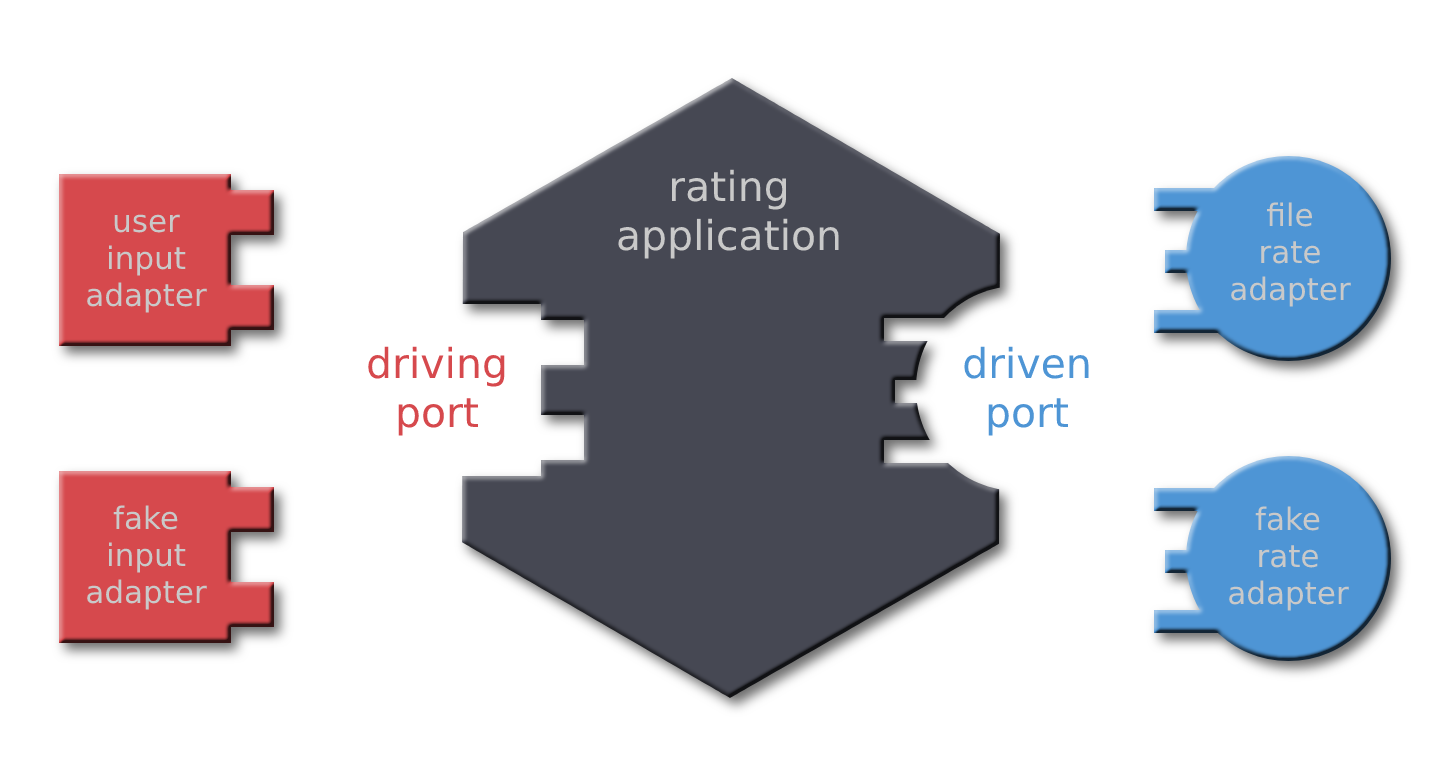
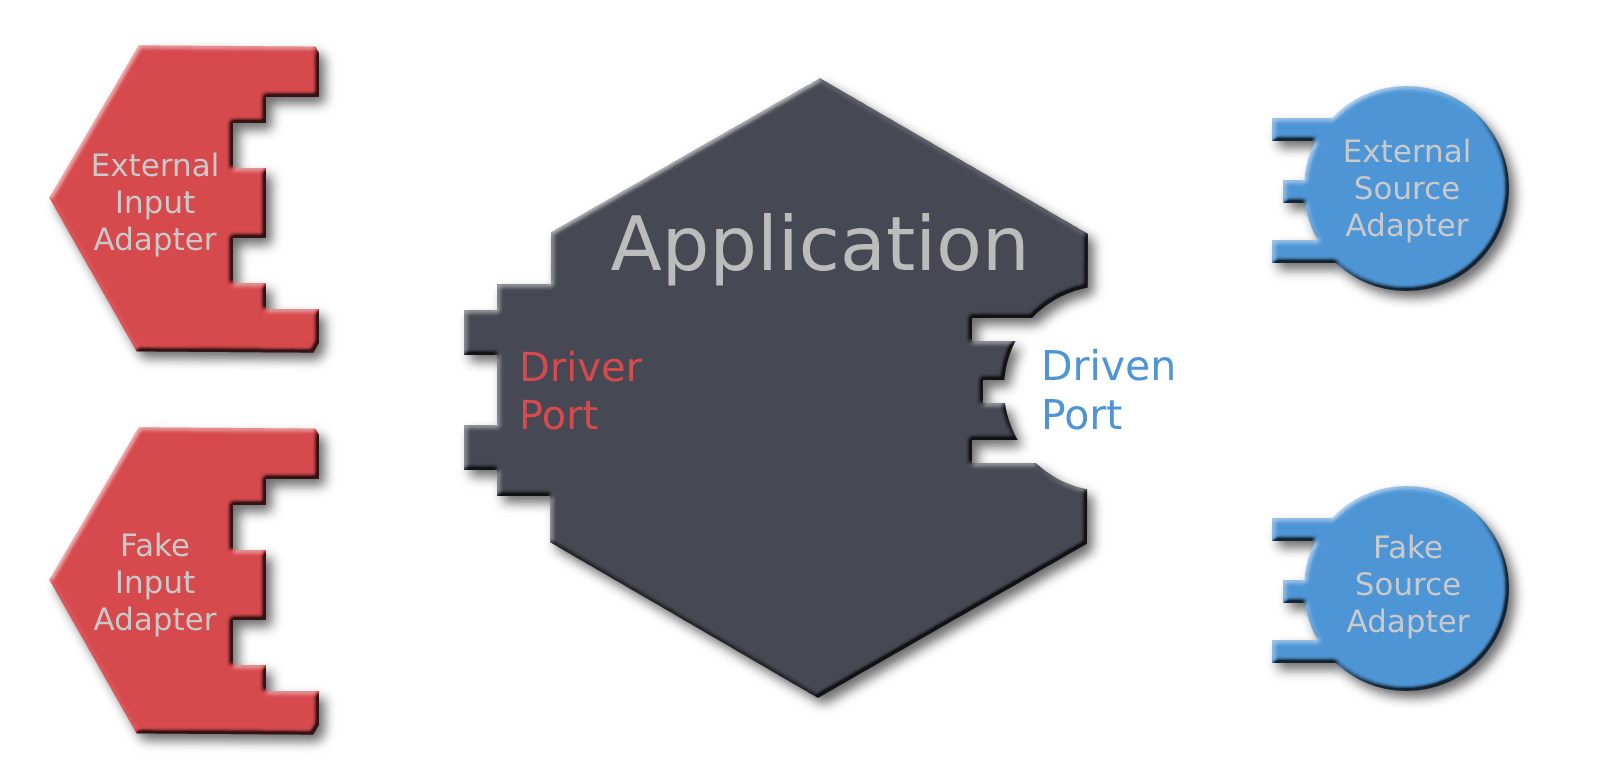
improve naming and documentation

diff --git a/tests/unit/test_rater.py b/tests/unit/test_rater.py
@@ -1,0 +1,33 @@
+import unittest
+
+from py_hexagon.domain.rater import Rater
+from py_hexagon.domain.obtain_rate import ObtainRate
+from py_hexagon.domain.request_rating import Rating
+
+
+class FakeRateProvider(ObtainRate):
+    """Adapter for ObtainRate (driven) port."""
+
+    def get_rate_for(self, value: float) -> float:
+        if value < 100.0:
+            return 1.5
+        else:
+            return 2.5
+
+
+class TestRater(unittest.TestCase):
+    def setUp(self) -> None:
+        """Configure application with a fake adapter.
+
+        Note that the test itself is the driver (left) adapter.
+        """
+        rate_provider = FakeRateProvider()
+        self.rater = Rater(rate_provider)
+
+    def test_below_threshold_input_returns_rating_with_low_rate(self) -> None:
+        rating = self.rater.get_rating(10.0)
+        self.assertEqual(rating, Rating(rate=1.5, result=15.0))
+
+    def test_above_threshold_input_returns_rating_with_high_rate(self) -> None:
+        rating = self.rater.get_rating(100.0)
+        self.assertEqual(rating, Rating(rate=2.5, result=250.0))

diff --git a/py_hexagon/__main__.py b/py_hexagon/__main__.py
@@ -1,13 +1,13 @@
-from py_hexagon.adapters.prompt_rating_usecase import PromptRatingUseCase
-from py_hexagon.adapters.file_rate_provider import FileRateProvider
-from py_hexagon.application.rate_application import RatingApplication
+from py_hexagon.infrastructure.console_adapter import ConsoleAdapter
+from py_hexagon.infrastructure.file_rate_provider import FileRateProvider
+from py_hexagon.domain.rater import Rater
 
 
 def main():
     """Configure application with adapters and start."""
-    rater = FileRateProvider()
-    application = RatingApplication(rater)
-    PromptRatingUseCase(application).start()
+    rate_provider = FileRateProvider()
+    rater = Rater(rate_provider)
+    ConsoleAdapter(rater).start()
 
 
 if __name__ == "__main__":

diff --git a/py_hexagon/domain/rater.py b/py_hexagon/domain/rater.py
@@ -1,0 +1,15 @@
+from py_hexagon.domain.obtain_rate import ObtainRate
+from py_hexagon.domain.request_rating import Rating, RequestRating
+
+
+class Rater(RequestRating):
+    """The application, containing the business logic."""
+
+    def __init__(self, rate_supplier: ObtainRate):
+        self._rate_supplier = rate_supplier
+
+    def get_rating(self, value: float) -> Rating:
+        rate = self._rate_supplier.get_rate_for(value)
+        return Rating(rate=rate, result=value * rate)
+
+

diff --git a/py_hexagon/infrastructure/console_adapter.py b/py_hexagon/infrastructure/console_adapter.py
@@ -1,10 +1,10 @@
-from py_hexagon.ports.rating_usecase import RatingUseCase
+from py_hexagon.domain.request_rating import RequestRating
 
 
-class PromptRatingUseCase:
-    """Adapter for RatingUseCase port."""
+class ConsoleAdapter:
+    """Adapter for RequestRating (driver) port."""
 
-    def __init__(self, rating_app: RatingUseCase):
+    def __init__(self, rating_app: RequestRating):
         self._rating_app = rating_app
 
     def start(self):

diff --git a/py_hexagon/infrastructure/file_rate_provider.py b/py_hexagon/infrastructure/file_rate_provider.py
@@ -1,11 +1,11 @@
 import json
 
-from py_hexagon.ports.rate_provider import RateProvider
+from py_hexagon.domain.obtain_rate import ObtainRate
 from pathlib import Path
 
 
-class FileRateProvider(RateProvider):
-    """Adapter for RateProvider port."""
+class FileRateProvider(ObtainRate):
+    """Adapter for ObtainRate (driven) port."""
 
     def get_rate_for(self, value: float) -> float:
         rate_specs = self._rate_spec_from_file()

diff --git a/py_hexagon/domain/obtain_rate.py b/py_hexagon/domain/obtain_rate.py
@@ -1,8 +1,8 @@
 from abc import ABCMeta, abstractmethod
 
 
-class RateProvider(metaclass=ABCMeta):
-    """Driven (outgoing) port of RatingApplication."""
+class ObtainRate(metaclass=ABCMeta):
+    """Driven (right) port of Rater."""
 
     @abstractmethod
     def get_rate_for(self, value: float) -> float:

diff --git a/py_hexagon/domain/request_rating.py b/py_hexagon/domain/request_rating.py
@@ -8,8 +8,8 @@ class Rating:
     result: float
 
 
-class RatingUseCase(metaclass=ABCMeta):
-    """Driving (inbound) port of RatingApplication."""
+class RequestRating(metaclass=ABCMeta):
+    """Driver (left) port of Rater."""
 
     @abstractmethod
     def get_rating(self, value: float) -> Rating:

diff --git a/docs/hexagonal_architecture.md b/docs/hexagonal_architecture.md
@@ -1,0 +1,91 @@
+# Hexagonal Architecture
+
+## Intent
+
+The primary characteristic of hexagonal architecture (also called Ports and Adapters) 
+is: *"Configurable Dependency"*.
+In particular IO dependencies are kept separate from the application 
+(containing the business logic), 
+meaning they can be easily substituted.
+This keeps the business logic free from any technology concerns, 
+and allows it to be tested in isolation.
+
+## Overview 
+Below, the UML class diagram gives an overview of 
+how the application, ports and adapters relate to each other.
+
+```mermaid
+classDiagram
+    direction BT
+
+    class Driver {<<left port>>}
+    class RealInput {<<adapter>>}
+    class TestInput {<<adapter>>}
+    
+    class BusinessLogic {<<application>>}
+    
+    class Driven {<<right port>>}      
+    class RealDataProvider {<<adapter>>}
+    class TestDataProvider {<<adapter>>}
+    
+    RealInput ..> Driver : uses
+    TestInput ..> Driver : uses
+    BusinessLogic ..> Driven : uses
+    
+    RealDataProvider ..|> Driven : implements
+    TestDataProvider ..|> Driven : implements
+    BusinessLogic ..|> Driver : implements
+```
+
+### Ports
+
+The application only communicates with the outside world through (any number of) ports.
+A port is just an interface, 
+which serves as a contract for how interaction with the outside occurs.
+Ports are often named after the interaction they allow, 
+for example `SelectDrink`, `ObtainPrice`, `RequestMedicine`.
+
+It's important to know that there are 2 types of ports. 
+The left and right side of the hexagon are asymmetrical.
+
+| Driver (left-side) ports                                                                                                                                                                            | Driven (right-side) ports                                                                                                                                                                                |
+|-----------------------------------------------------------------------------------------------------------------------------------------------------------------------------------------------------|:---------------------------------------------------------------------------------------------------------------------------------------------------------------------------------------------------------|
+| Starts the interaction with the application.                                                                                                                                                        | Is caused to act as a result of the interaction.                                                                                                                                                         |
+| Example users of this port are: humans, remote applications, etc.                                                                                                                                   | Example users of this port are either: <br/>- **Repositories**, e.g: A database to obtain information from. <br/>- **Recipients**, e.g: An SMTP server for sending emails.                               |
+| An adapter connected to this port will request actions from the application.                                                                                                                        | An adapter connected to this port will be requested, by the application, to perform actions.                                                                                                             |
+| This port interface is implemented by the application. And the left adapter will use it.                                                                                                            | This port interface is implemented by the right side adapter. And it's used by the application.                                                                                                          |
+| Driver ports offer the application functionality to the outside world. Thus, driver ports are said to be the use case boundary of the application. They are the API of the application.             | A driven port is an interface for a functionality, needed by the application, for implementing the business logic. So driven ports are the SPI (Service Provider Interface) required by the application. |
+
+
+
+### Adapters
+Adapters implement a specific technology to communicate to the application
+through its ports.
+Given a port, there may be an adapter for each technology that is desired. 
+
+- There should always be at least 2 adapters for each port:
+  - a real driver that will run the application,
+  - and one for testing the behaviour of the port.
+
+
+### Configuration
+Which adapter to use for each port needs to be configured. 
+This usually happens in the main file, or in the setup of tests.
+
+- Configuration is a 3-step process:
+  - (1) Each driven adapter is instantiated. 
+  - (2) The driven adapters are passed to the application. 
+  - (3) The application is passed to each driving adapter.
+
+## Further Information
+
+### Articles
+- Original article by Alistair Cockburn: [Hexagonal-Architecture](https://alistair.cockburn.us/hexagonal-architecture/)
+- Endorsed by Alistair Cockburn: [Hexagonal Architecture Articles by Juan Manuel Garrido de Paz’](https://jmgarridopaz.github.io/content/articles.html)
+- [A color coded guide to ports and adapters by Damon Kelley](https://8thlight.com/insights/a-color-coded-guide-to-ports-and-adapters)
+
+
+### Talks
+- Alistair in the Hexagone: [Part-1](https://youtu.be/th4AgBcrEHA), [Part-2](https://youtu.be/iALcE8BPs94) and [Part-3](https://youtu.be/DAe0Bmcyt-4).
+- Rodrigo Branas’ interview: [Hexagonal Architecture (Ports and Adapters) with Alistair Cockburn // Live #98](https://youtu.be/AOIWUPjal60)
+- [The clean architecture by Ian Cooper](https://youtu.be/SxJPQ5qXisw)

diff --git a/readme.md b/readme.md
@@ -1,38 +1,26 @@
 Py-Hexagon
 ==========
 
-A (non-web) python version of the [Smaller Web Hexagon](https://github.com/totheralistair/SmallerWebHexagon/) 
+A (non-web specific) python version of the [Smaller Web Hexagon](https://github.com/totheralistair/SmallerWebHexagon/) 
 by Alistair Cockburn.
 
-![Alt text](docs/hexagon.png?raw=true "Rating Hexagon")
+- For a full description, you can refer to:  [About Py-Hexagon](docs/about_py-hexagon.md).
+- An overview of hexagonal architecture can be read here: [Hexagonal Architecture](docs/hexagonal_architecture.md).
+
+![Alt text](docs/hexagon.png?raw=true "Hexagonal-Architecture")
 
 
-Like the original by Alistair, this is an example of a simple hexagon 
-with one **driving** (also called inbound or left-side) port 
-and one **driven** (outgoing or right-side) port.
+### Running  code
 
-
-- The application simply calculates the formula: `result = input * rate`.
-- The driving port is connected to either a user input prompt or to a fake input (test double).
-- The driven port looks up the rate from either a file or a fake (test double).
-
-*To keep the example short, input sanitization and error handling have been left out.*
-*Also, the directory structure and module names have been chosen for illustrative purposes.*
-*This is not production ready code,*
-*it merely serves to convey the concept of hexagonal architecture.*
-
-
-## Running the application
-
-If you have python 3 installed, you can run:
+Either using python 3:
 
     python -m py_hexagon
 
-Otherwise, you can use docker: 
+Or with docker: 
 
     docker compose run --rm app
 
-## Running tests
+### Running tests
 
 Either run:
 
@@ -41,10 +29,4 @@ Either run:
 or alternatively: 
 
     docker compose run --rm app unittest discover tests
-
-
-
-## Further reading
-- [Alistair Cockburn, hexagonal-architecture](https://alistair.cockburn.us/hexagonal-architecture/)
-- [A color coded guide to ports and adapters](https://8thlight.com/insights/a-color-coded-guide-to-ports-and-adapters)
 

diff --git a/docs/about_py-hexagon.md b/docs/about_py-hexagon.md
@@ -1,0 +1,49 @@
+# About Py-Hexagon
+
+Like the original by Alistair, this is an example of a simple rate calculation application 
+with one driver (left) port and one driven (right) port.
+
+- **Application** ( *rater.py* ) 
+  - simply calculates the formula: `result = input * rate`.
+    - The `input` is provided by an adapter connected to the driver port.
+    - The `rate` is retrieved from an adapter connected to the driven port.
+- **Driver port** ( *request_rating.py* )
+  - This port is connected to one of the following:
+    - An **adapter** that provides input from the user through a console ( *console_adapter.py* )
+    - A test (acting as **adapter**) that provides fake input ( *test_rater.py* )
+- **Driven port** ( *obtain_rates.py* )
+  - This port is connected to one of the following:
+    - An **adapter** getting rates from a file ( *file_rate_provider.py* )
+    - A fake **adapter** with hardcoded rates ( *test_rater.py* )
+- **Connecting** adapters to the ports happens when:
+  - The program is run ( *\__main\__.py* )
+  - The tests are run ( *test_rater.py* )
+
+*To keep the example short, input sanitization and error handling have been left out.*
+*This is not production ready code,*
+*it merely serves to convey the concept of hexagonal architecture.*
+
+## UML class diagram
+
+```mermaid
+classDiagram
+    direction BT
+
+    class RequestRating {<<driver port>>}
+    class ConsoleAdapter {<<adapter>>}
+    class TestRater {<<adapter>>}
+    
+    class Rater {<<application>>}
+    
+    class ObtainRate {<<driven port>>}      
+    class FileRateProvider {<<adapter>>}
+    class FakeRateProvider {<<adapter>>}
+    
+    ConsoleAdapter ..> RequestRating : uses
+    TestRater ..> RequestRating : uses
+    Rater ..> ObtainRate : uses
+    
+    FileRateProvider ..|> ObtainRate : implements
+    FakeRateProvider ..|> ObtainRate : implements
+    Rater ..|> RequestRating : implements
+```
